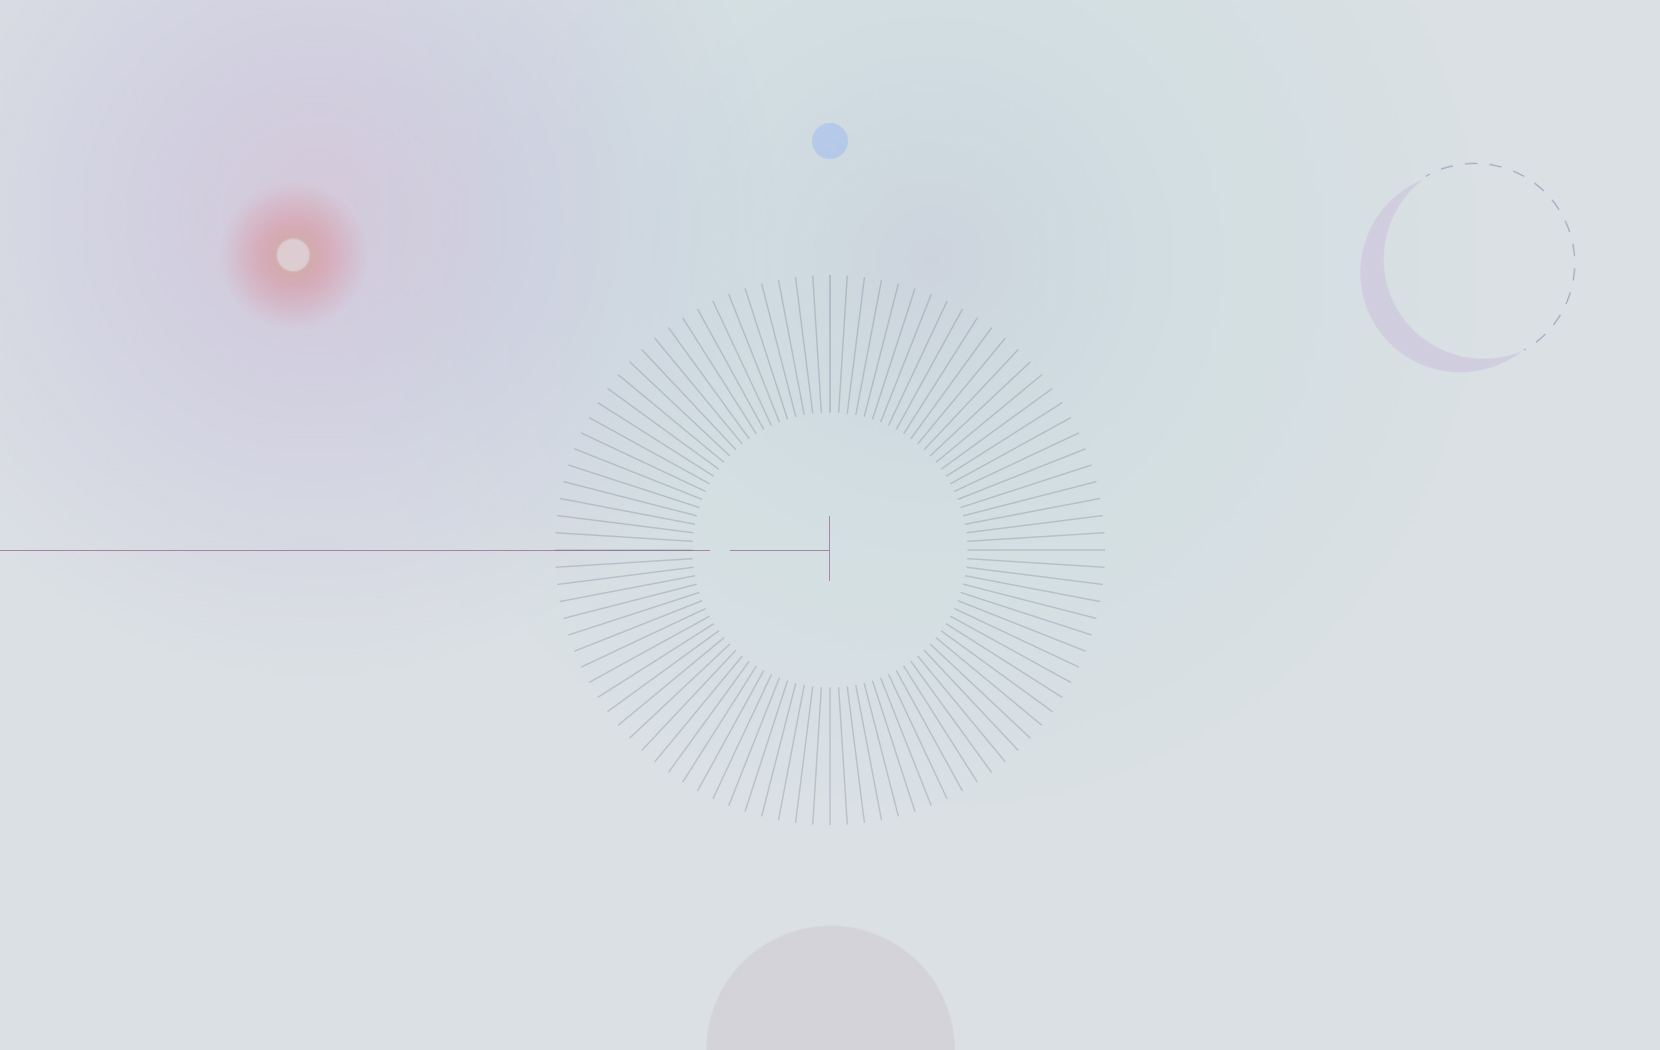
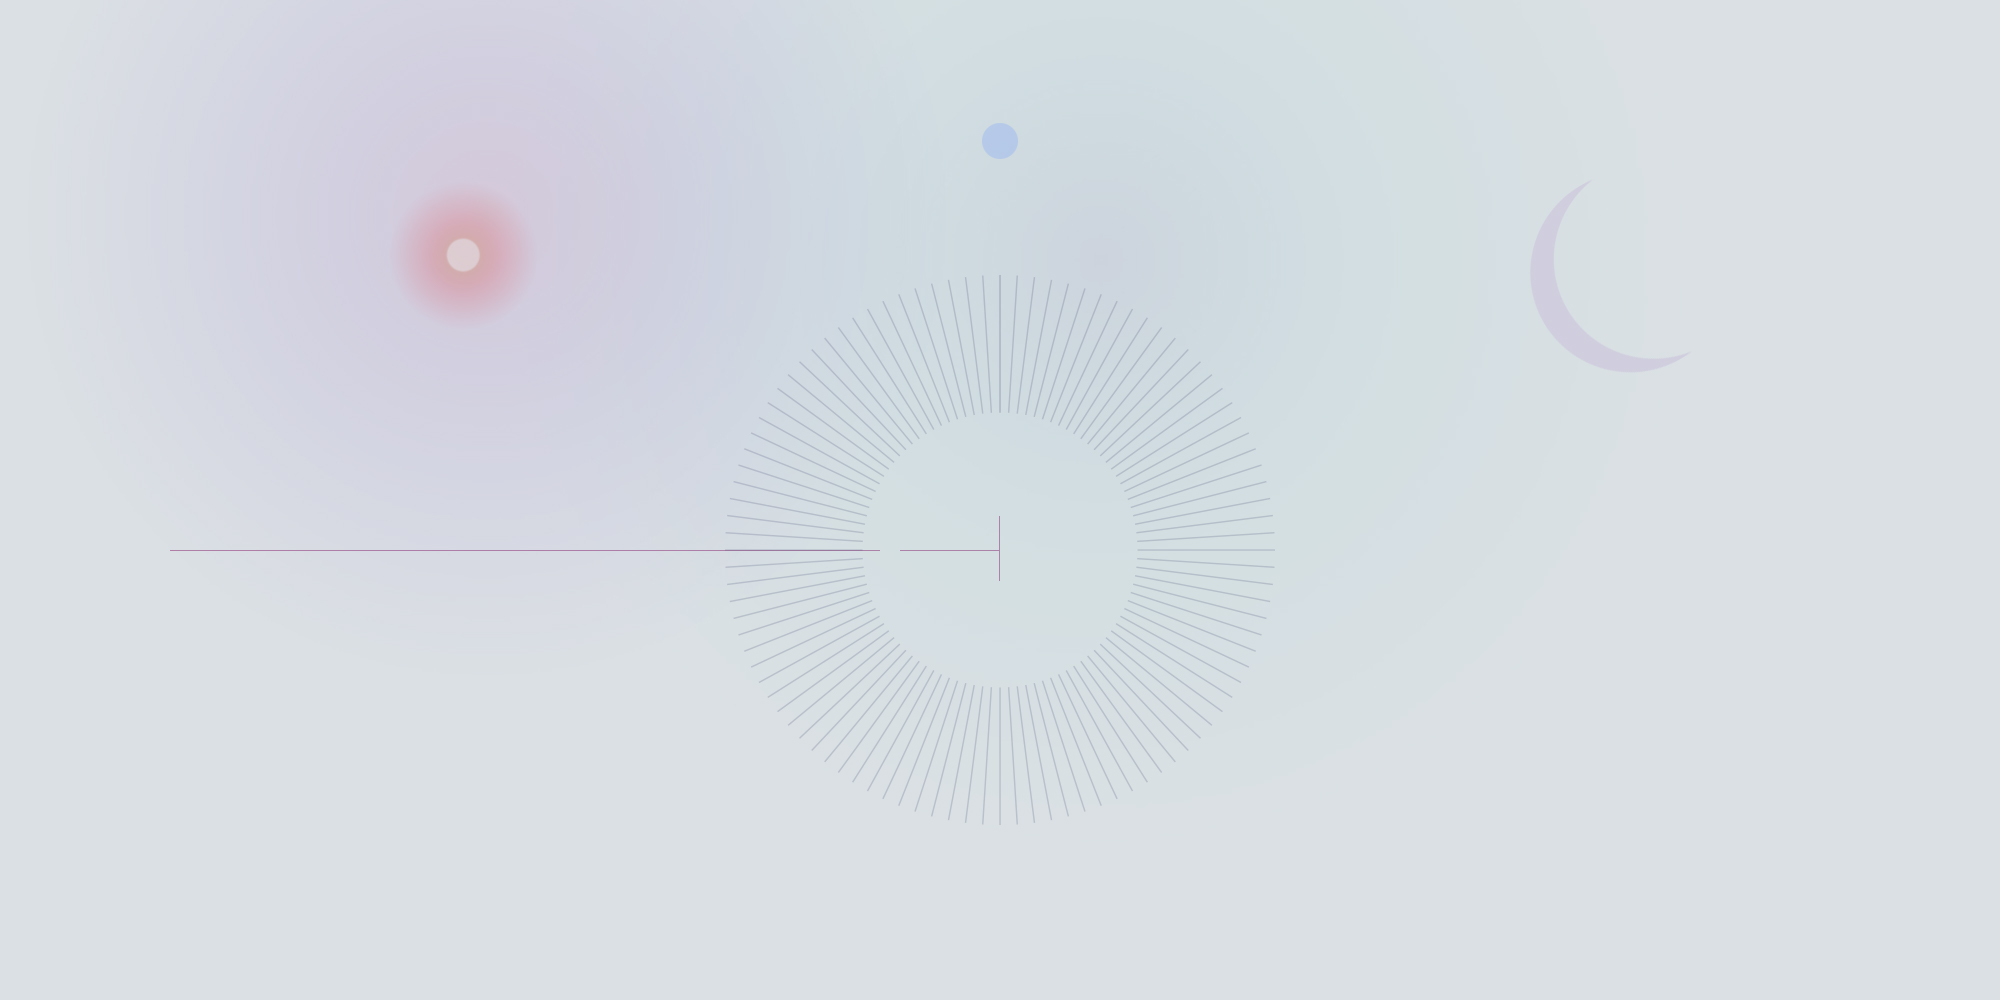
App Bg

diff --git a/src/docs/ui/IntroView.tsx b/src/docs/ui/IntroView.tsx
@@ -1,5 +1,5 @@
 import {observer} from "mobx-react";
-import React, {useEffect, useState} from "react";
+import React, {useEffect, useLayoutEffect, useState} from "react";
 import ReactMarkdown from "react-markdown";
 import Prism from "prismjs";
 import 'prismjs/components/prism-java';
@@ -14,9 +14,27 @@ import {useDocsContext} from "../../App";
 import {AppSize, LayoutLayer} from "../application/Application";
 import {HStack, IconButton, Label, StylableContainer, TextArea, VStack} from "../application/NoCSSComponents";
 
+function useWindowPosition(limit: number = -1): number {
+  const [scrollPosition, setPosition] = useState(window.scrollY)
+  useLayoutEffect(() => {
+    const handler = () => {
+      let updatePosition = limit === -1
+      updatePosition = updatePosition || (scrollPosition < limit && window.scrollY > limit && scrollPosition !== window.scrollY)
+      updatePosition = updatePosition || (scrollPosition > limit && window.scrollY < limit && scrollPosition !== window.scrollY)
+      if (updatePosition) setPosition(window.scrollY)
+    }
+    window.addEventListener('scroll', handler);
+    return () => {
+      window.removeEventListener('scroll', handler);
+    }
+  }, [scrollPosition]);
+  return scrollPosition;
+}
+
 export const IntroView = observer(() => {
   const {app} = useDocsContext()
-  console.log("new IntroView")
+  const scrollPosition = useWindowPosition(250)
+  console.log("new IntroView, scrollPosition: ", scrollPosition)
 
   const bgColor = app.theme.appBg + "99"
 
@@ -28,7 +46,8 @@ export const IntroView = observer(() => {
                  gap="30px"
                  paddingBottom="20px">
 
-    <img src={app.theme.isDark ? "/headerBg.jpg" : "/headerBg-light.jpg"} className="introHeaderImg"/>
+    <img src={app.theme.isDark ? "/headerBg.jpg" : "/headerBg-light.jpg"}
+         className={scrollPosition > 250 ? "introHeaderImg absolute" : "introHeaderImg fixed"}/>
 
 
     <Header width="100%"
@@ -38,7 +57,7 @@ export const IntroView = observer(() => {
             fixed/>
 
     <StylableContainer left="10px" top="5px" fixed
-                        layer={LayoutLayer.HEADER}>
+                       layer={LayoutLayer.HEADER}>
       <IconButton icon={app.theme.isDark ? "moon" : "sun"}
                   hideBg
                   popUp="Switch a theme"
@@ -105,7 +124,7 @@ const aboutTxt = `/***
 *   Designed by developers for developers               *   ======================== 
 *   This is a web-solution, that enables you to make    *   MODE  |  VER  |  DATE
 *   notes using a markdown-editor. Markdown helps       *   –––––––––––––––––––––––– 
-*   to format notes and code fragments easily without   *   demo  |  2.4  |  2023  
+*   to format notes and code fragments easily without   *   demo  |  2.5  |  2023  
 *   having to write a plane text or HTML tags.          *   ======================== 
 *                                                       *
 ***/
@@ -121,7 +140,7 @@ const aboutTxtXS = `/***
 *  or HTML tags.
 *
 *  –––––––––––––––––––––––––––––––––––––––––
-*  MODE: demo  |  VER: 2.4  |  DATE: 2023  
+*  MODE: demo  |  VER: 2.5  |  DATE: 2023  
 *  –––––––––––––––––––––––––––––––––––––––––
 *
 ***/

diff --git a/src/index.tsx b/src/index.tsx
@@ -10,14 +10,14 @@ console.log("React v.", React.version);
 const root = ReactDOM.createRoot(
   document.getElementById('root') as HTMLElement
 )
-root.render(
-  <React.StrictMode>
-    <App />
-  </React.StrictMode>
-)
 // root.render(
+//   <React.StrictMode>
 //     <App />
+//   </React.StrictMode>
 // )
+root.render(
+    <App />
+)
 
 // If you want to start measuring performance in your app, pass a function
 // to log results (for example: reportWebVitals(console.log))

diff --git a/src/index.css b/src/index.css
@@ -150,12 +150,17 @@ hr {
 
 img.introHeaderImg {
   background-repeat: no-repeat;
-  position: fixed;
-  width: 1660px;
-  left: calc(50% - 830px);
+  width: 2000px;
   top: 0;
-  margin: auto;
-  max-width: 1660px;
+  max-width: 2000px;
+}
+
+img.introHeaderImg.absolute {
+  top: 250px;
+  position: absolute;
+}
+img.introHeaderImg.fixed {
+  position: fixed;
 }
 
 @media screen and (max-width: 480px) {

diff --git a/src/docs/application/ThemeManager.ts b/src/docs/application/ThemeManager.ts
@@ -58,7 +58,7 @@ export class ThemeManager {
     yellow: "#c29a5f",
     appBg: DARK_THEME_APP_BG,
     transparent: "0",
-    panelBg: "#2e3437",
+    panelBg: "#2c3436",
     modalWindowBg: "#495655",
     text: DARK_THEME_WHITE,
     text75: "#76818d",
